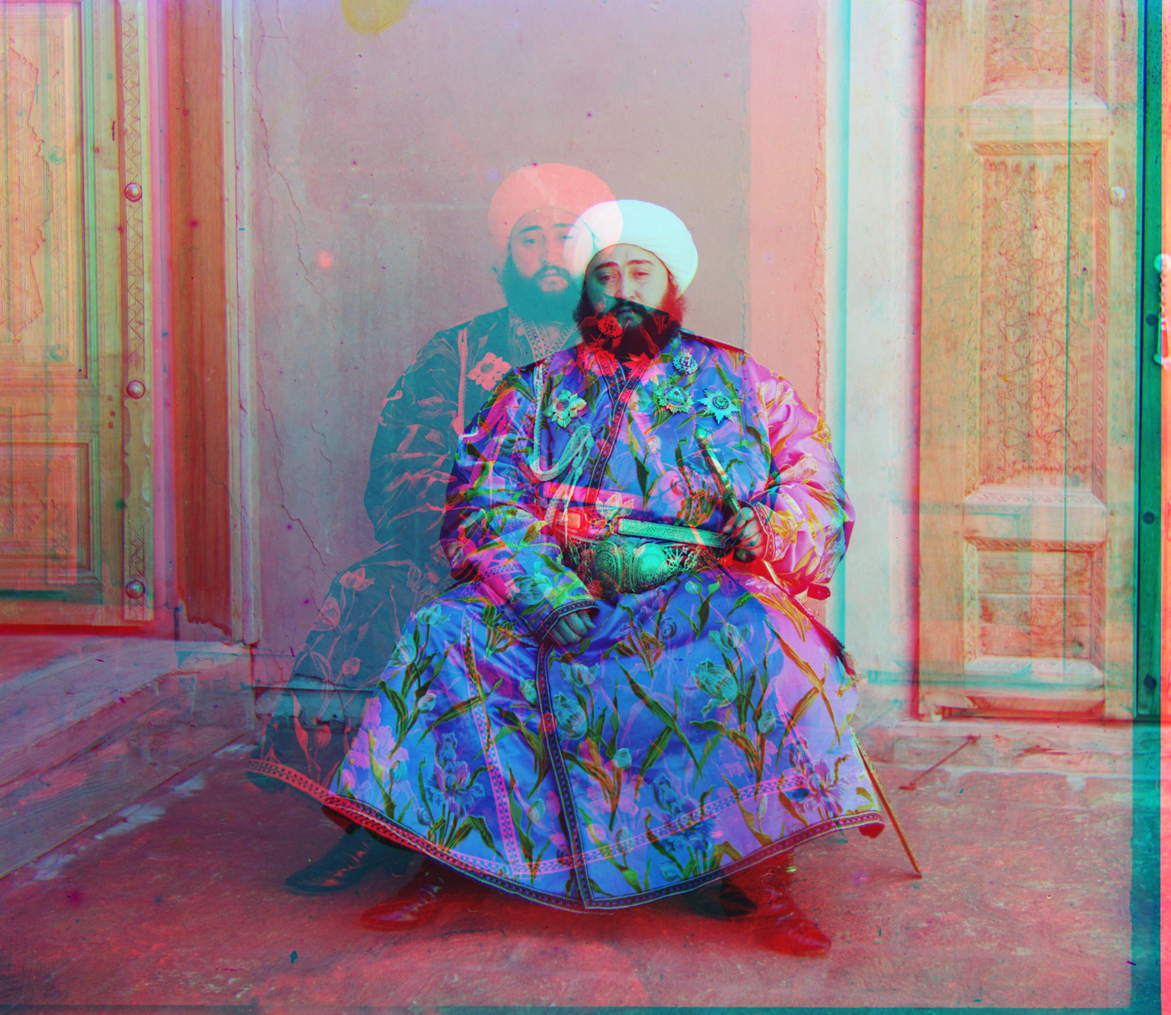
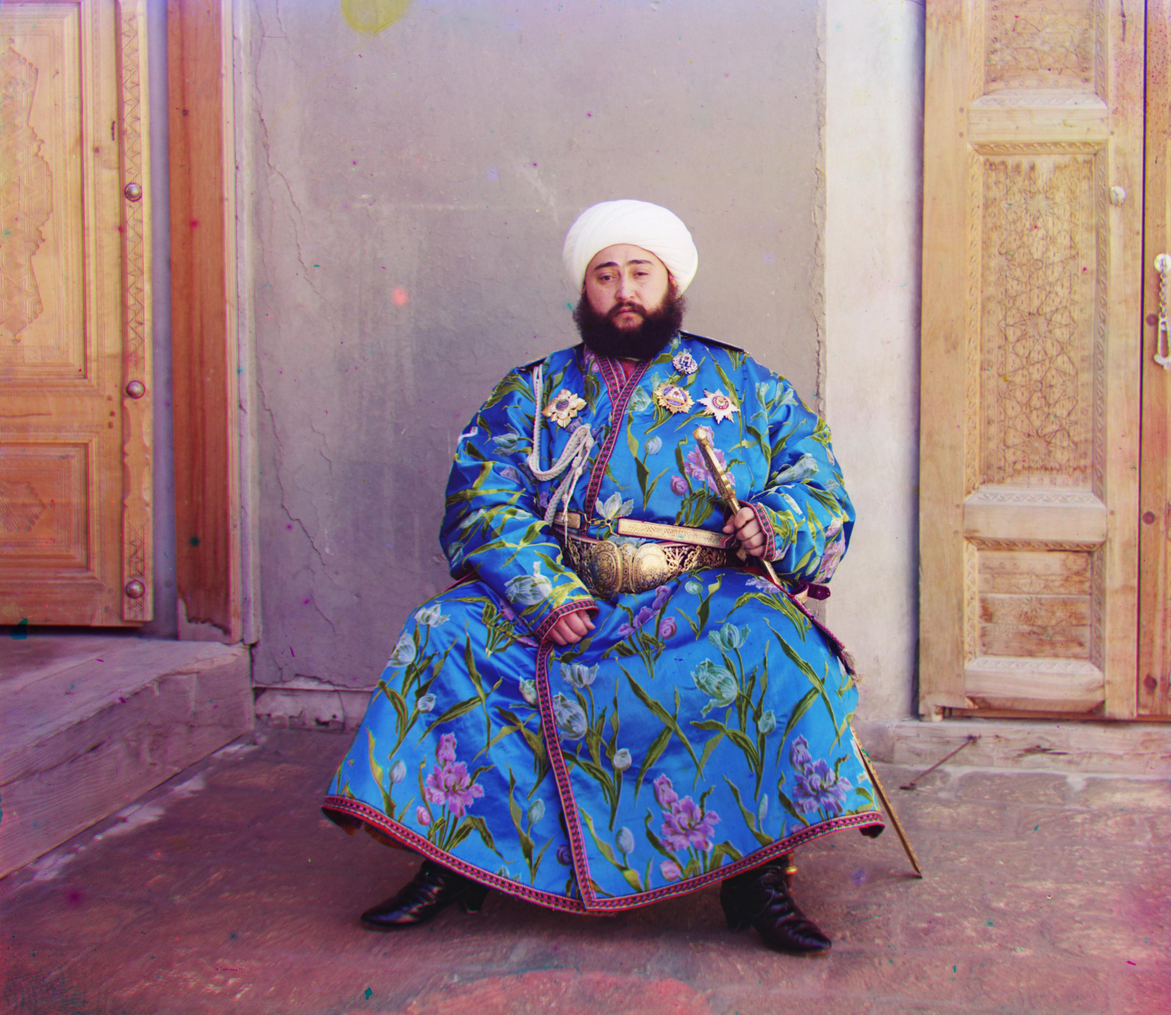
now_clear

diff --git a/code/main.py b/code/main.py
@@ -30,13 +30,13 @@ def run_one(im_path: Path, out_path: Path, win: int = 15, crop_frac: float = 0.1
     if use_pyramid:
         print("Aligning with PYRAMID (gradients)…")
         dG = align_pyramid(B, G, levels=None, base_win=12, refine_win=3,
-                           crop_frac=0.15, scale=2, use_grad=False)
+                           crop_frac=0.15, scale=2, use_grad=True)
         dR = align_pyramid(B, R, levels=None, base_win=12, refine_win=3,
-                           crop_frac=0.15, scale=2, use_grad=False)
+                           crop_frac=0.15, scale=2, use_grad=True)
     else:
         print("Aligning with SINGLE-SCALE (gradients)…")
-        dG = align_single(B, G, win=win, crop_frac=crop_frac, use_grad=False)
-        dR = align_single(B, R, win=win, crop_frac=crop_frac, use_grad=False)
+        dG = align_single(B, G, win=win, crop_frac=crop_frac, use_grad=True)
+        dR = align_single(B, R, win=win, crop_frac=crop_frac, use_grad=True)
 
     print(f"Offsets  G(dy,dx)={dG}  R(dy,dx)={dR}")
 
@@ -60,5 +60,5 @@ def run_one(im_path: Path, out_path: Path, win: int = 15, crop_frac: float = 0.1
 
 if __name__ == "__main__":
     in_file  = ROOT / "data" / "emir.tif" #input file here replace image_name 
-    out_file = ROOT / "results" / "emirblurry_rgb.jpg" #output file here replace image name
+    out_file = ROOT / "results" / "emir_rgb.jpg" #output file here replace image name
     run_one(in_file, out_file, win=15, crop_frac=0.15)
